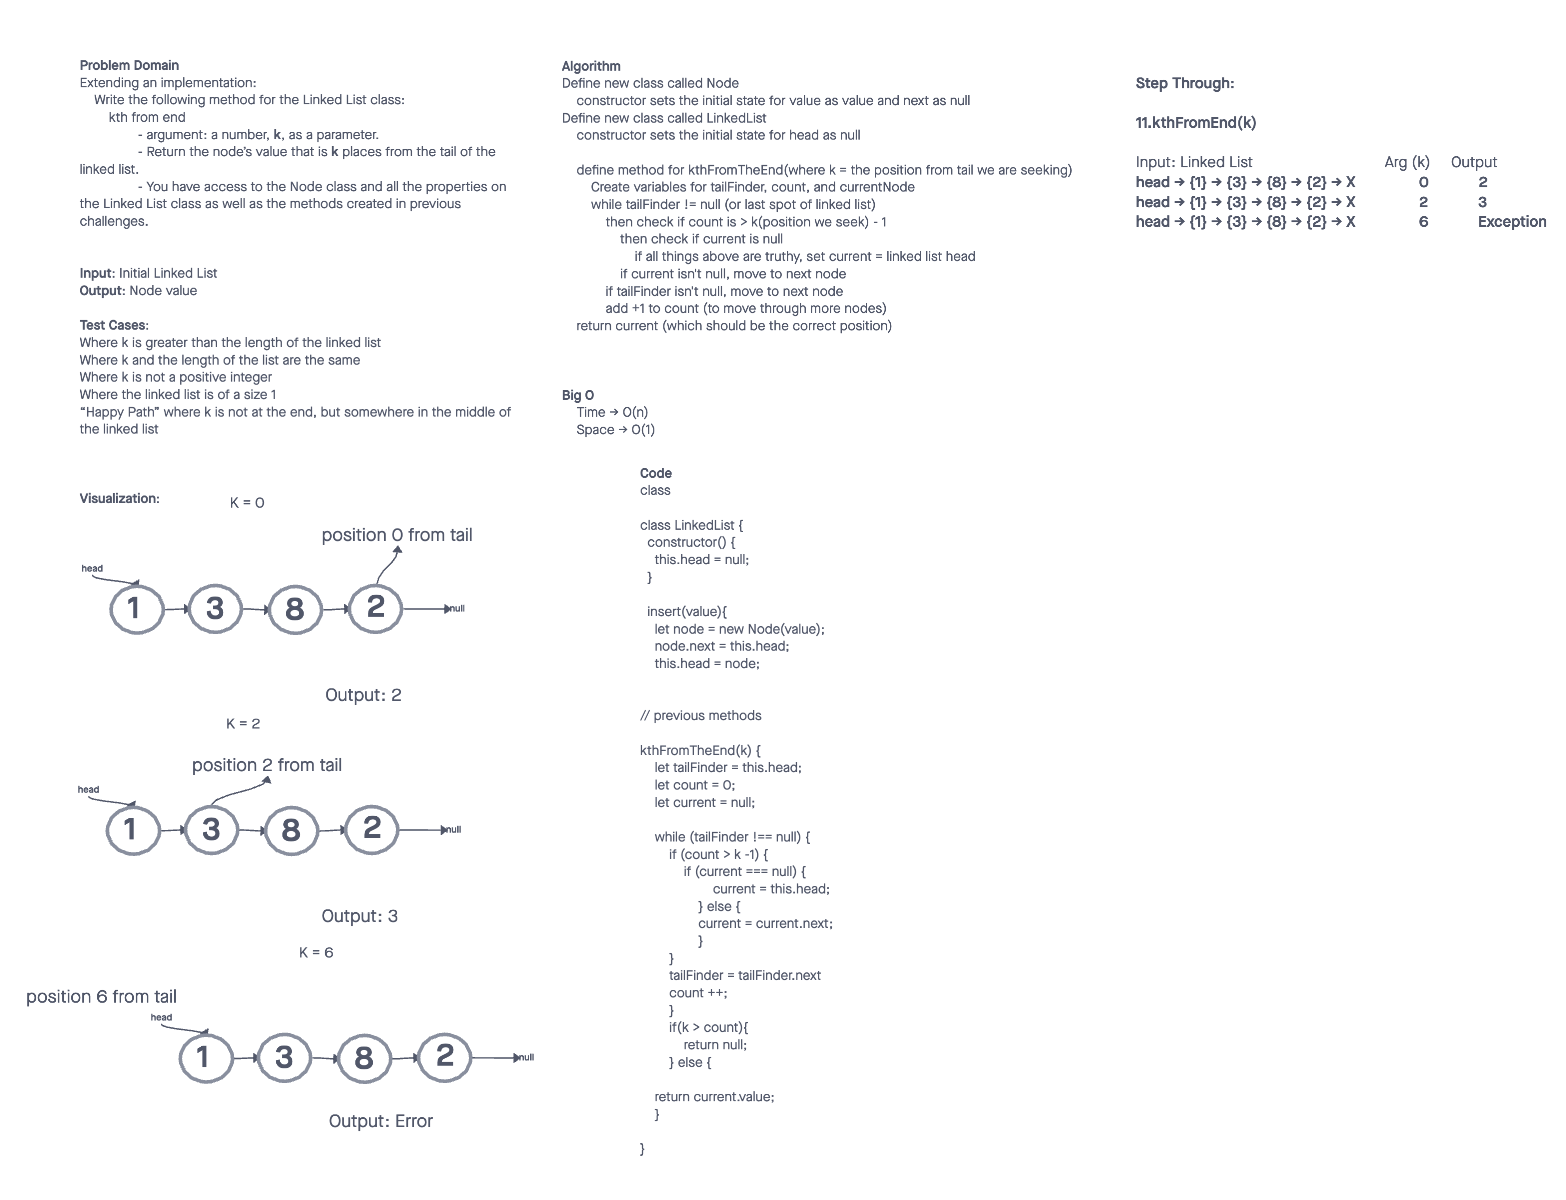
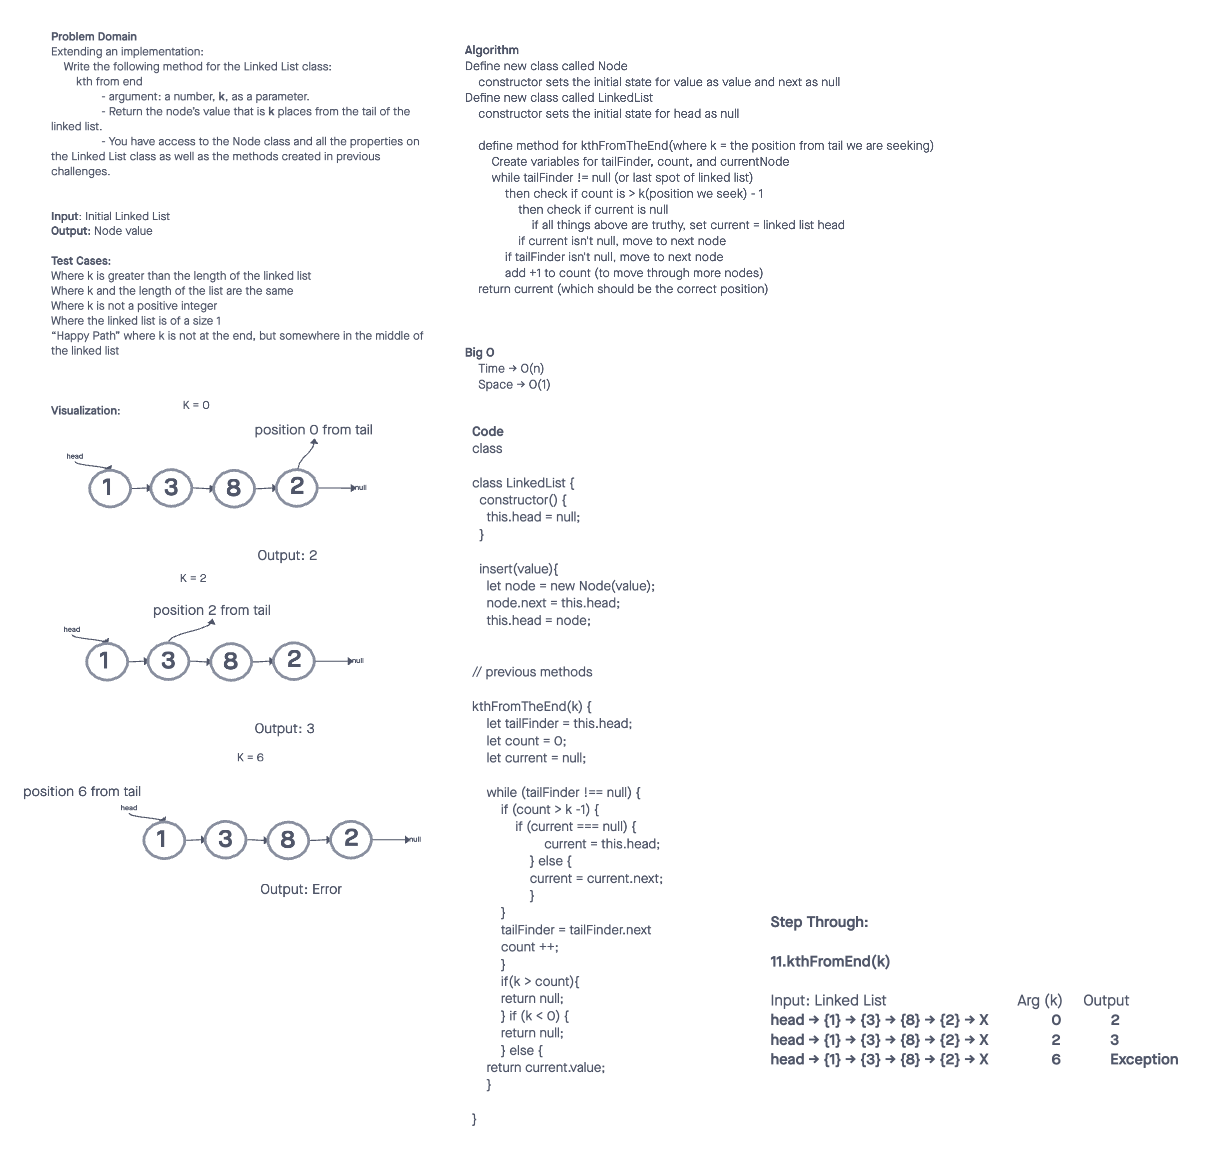
updated README and fixed final test

diff --git a/401-challenges/class-06/linked-list-insertions/__tests__/linked-lists-insertions.test.js b/401-challenges/class-06/linked-list-insertions/__tests__/linked-lists-insertions.test.js
@@ -143,7 +143,7 @@ describe('Linked List', () => {
     expect(linkedList.head.next.next.next).toBeNull();
   });
 
-///
+  ///
 
   // test('Where k is greater than the length of the linked list', () => {
   //   linkedList.append(1);
@@ -213,7 +213,7 @@ describe('Linked List', () => {
     expect(list.toString()).toEqual('{ a } -> { b } -> { c } -> { d } -> NULL');
     expect(list.kthFromTheEnd(10)).toEqual(null);
   });
-  
+
   test('Where k and the length of the list are the same', () => {
     const list = new LinkedList();
     list.append('a');

diff --git a/401-challenges/class-06/linked-list-insertions/index.js b/401-challenges/class-06/linked-list-insertions/index.js
@@ -133,7 +133,9 @@ class LinkedList {
       tailFinder = tailFinder.next;
       count++;
     }
-    if(k > count){
+    if (k > count) {
+      return null;
+    } if (k < 0) {
       return null;
     } else {
       return current.value;

diff --git a/401-challenges/class-07.md b/401-challenges/class-07.md
@@ -1,7 +1,7 @@
-# Documentation: 401 Code Challenge - Class 06
+# Documentation: 401 Code Challenge - Class 07
 
 # Challenge Title
-Extending an Implementation (Linked Lists)
+Extending an Implementation: k-th value from the end of a linked list:
 
 ## Whiteboard Process
 ![whiteboard for class 06](401-challenges/assets/whiteboard-07.png)
@@ -22,7 +22,6 @@ The class should contain the following methods:
 - Time -> O(n)
 - Space -> O(1)
 
-
 ## Solution
 
 see [index.js](401-challenges/class-06/linked-list-insertions/index.js)
@@ -32,24 +31,26 @@ see [index.js](401-challenges/class-06/linked-list-insertions/index.js)
  PASS  __tests__/linked-lists-insertions.test.js
   Linked List
     ✓ Can successfully instantiate an empty linked list (1 ms)
-    ✓ Can properly insert into the linked list (1 ms)
-    ✓ The head property will properly point to the first node in the linked list
+    ✓ Can properly insert into the linked list
+    ✓ The head property will properly point to the first node in the linked list (1 ms)
     ✓ Can properly insert multiple nodes into the linked list
     ✓ Will return true when finding a value within the linked list that exists
-    ✓ Will return false when searching for a value in the linked list that does not exist
+    ✓ Will return false when searching for a value in the linked list that does not exist (1 ms)
     ✓ Can properly return a collection of all the values that exist in the linked list
     ✓ Can successfully add a node to the end of the linked list
-    ✓ Can successfully add multiple nodes to the end of a linked list (1 ms)
-    ✓ Can successfully insert a node before a node located in the middle of a linked list
-    ✓ Can successfully insert a node before the first node of a linked list (1 ms)
+    ✓ Can successfully add multiple nodes to the end of a linked list
+    ✓ Can successfully insert a node before a node located in the middle of a linked list (1 ms)
+    ✓ Can successfully insert a node before the first node of a linked list
     ✓ Can successfully insert after a node in the middle of the linked list
     ✓ Can successfully insert a node after the last node of the linked list
+    ✓ Where k is greater than the length of the linked list
+    ✓ Where k and the length of the list are the same
+    ✓ Where k is not a positive integer (2 ms)
+    ✓ Where the linked list is of a size 1
+    ✓ "Happy Path" where k is not at the end, but somewhere in the middle of the linked list
 
 
 ## References & Collaborations
 
-- Partnered with Emmanuel Gonzales for Whiteboarding exercise
-- Referenced this article for more information on linked lists [Implementing a Linked List in ES6 JavaScript](https://javascript.plainenglish.io/implementing-a-linked-list-in-es6-javascript-be896ed51d5f)
-- Asked ChatGPT for help writing tests. Used prompt "Can you help me write tests for my javascript code to ensure the functionality can prove the following: Can successfully add a node to the end of the linked list and can successfully add multiple nodes to the end of a linked list"
-  - Then used the response as a blueprint for the remaining tests as well.
-- Referenced circle back with Ryan
+- Partnered with Ike Steoger for Whiteboarding exercise & coding
+- Referenced this article for more information on linked lists [Two Pointer Technique in a Linked List using Swift](https://www.codecademy.com/article/the-two-pointer-technique-in-a-linked-list-swift)
